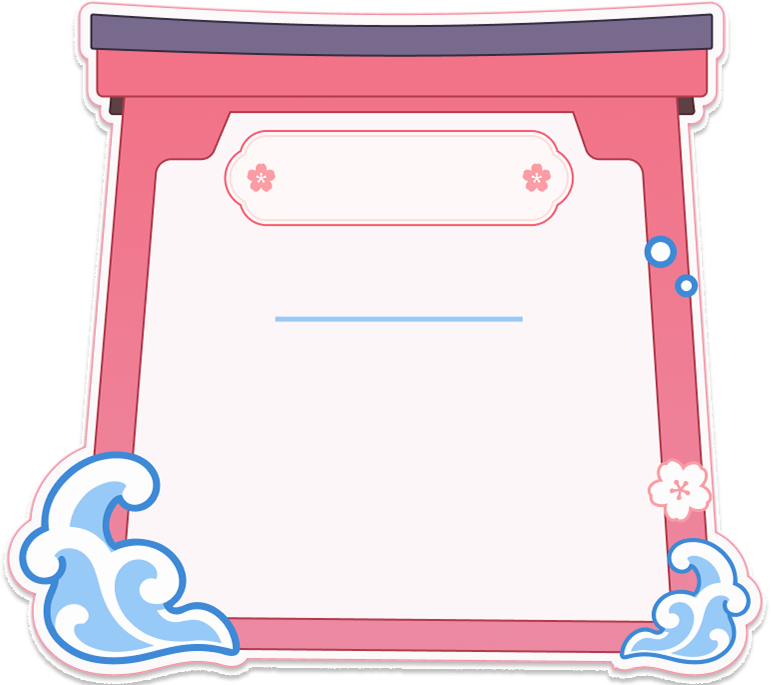
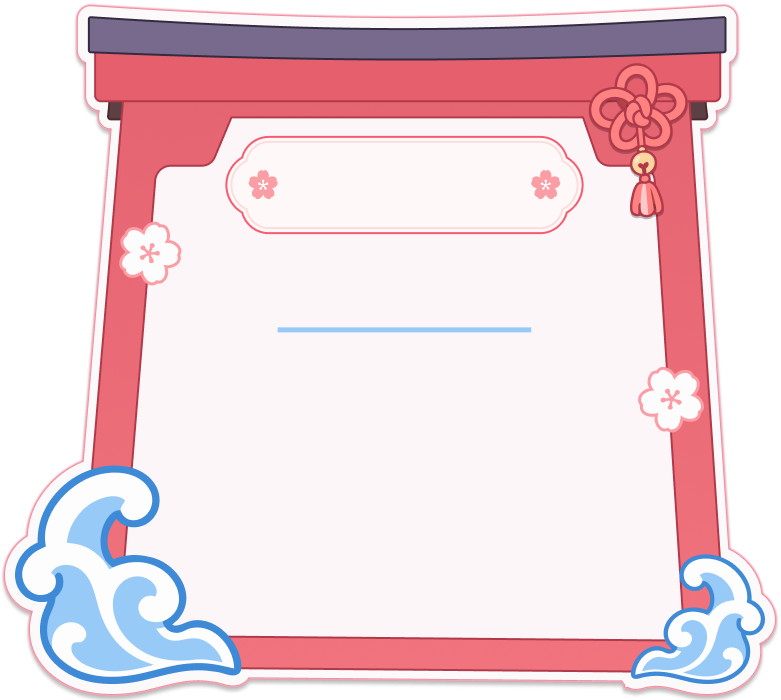
Feat: 수정사항 반영

Changed region(s): [[0.0, 0.0, 0.9961, 1.0], [0.3424, 0.4599, 0.6848, 0.4905]]

diff --git a/src/app/(root)/time-table/0c10c964-b83c-4309-a81b-76550aba17b0/_components/TimeTableCell.tsx b/src/app/(root)/time-table/0c10c964-b83c-4309-a81b-76550aba17b0/_components/TimeTableCell.tsx
@@ -81,8 +81,8 @@ const CardStreamingDay = ({
         style={{
           width: 200,
           height: 100,
-          top: 128,
-          left: 332,
+          top: 132,
+          left: 336,
           fontSize: 50,
           fontFamily: COMP_FONTS.STREAMING_DAY,
           color: COMP_COLORS.STREAMING_DAY,
@@ -107,8 +107,8 @@ const CardStreamingDate = ({
       style={{
         width: 200,
         height: 100,
-        top: 128,
-        left: 220,
+        top: 132,
+        left: 228,
         fontSize: 50,
         fontFamily: COMP_FONTS.STREAMING_DATE,
         color: COMP_COLORS.STREAMING_DATE,
@@ -139,7 +139,7 @@ const CardStreamingTime = ({
         height: 100,
         lineHeight: 1,
         fontSize: 45,
-        top: 228,
+        top: 236,
         left: 252,
       }}
       className=" absolute flex justify-center items-center"
@@ -155,7 +155,7 @@ const CardMainTitle = ({ currentTheme, content, day }: CardMainTitleProps) => {
       style={{
         width: 440,
         height: 240,
-        top: 360,
+        top: 372,
         left: 178,
       }}
       className="absolute flex justify-center items-center shrink-0"
@@ -211,7 +211,7 @@ const CardSubTitle = ({ content, day }: CardSubTitleProps) => {
       style={{
         width: 440,
         height: 80,
-        top: 320,
+        top: 330,
         left: 178,
       }}
       className="absolute flex justify-center items-center"
@@ -302,9 +302,34 @@ const OfflineCard = ({ day, currentTheme }: OfflineCardProps) => {
         ...CARD_SIZES.OFFLINE,
       }}
       key={day}
+      className="-z-10"
     >
       <img
         src={Imgs[currentTheme || "first"]["offline"].src.replace("./", "/")}
+        alt="offline"
+        style={{
+          ...CARD_SIZES.OFFLINE,
+        }}
+        draggable={false}
+      />
+    </div>
+  );
+};
+
+const OfflineFrame = ({ day, currentTheme }: OfflineCardProps) => {
+  return (
+    <div
+      style={{
+        ...CARD_SIZES.OFFLINE,
+      }}
+      key={day}
+      className="absolute inset-0 z-30"
+    >
+      <img
+        src={Imgs[currentTheme || "first"]["offline_frame"].src.replace(
+          "./",
+          "/",
+        )}
         alt="offline"
         style={{
           ...CARD_SIZES.OFFLINE,
@@ -329,7 +354,7 @@ const TimeTableCell: React.FC<TimeTableCellProps> = ({
   const entrySubTitle = (primaryEntry.subTitle as string) || "";
 
   const pos = [
-    { left: 3126, top: 85, rotate: "2.5deg" },
+    { left: 3128, top: 88, rotate: "2.5deg" },
     { left: 1572, top: 717, rotate: "-2.4deg" },
     { left: 2346, top: 689, rotate: "0deg" },
     { left: 3128, top: 785, rotate: "2.3deg" },
@@ -340,69 +365,39 @@ const TimeTableCell: React.FC<TimeTableCellProps> = ({
 
   return (
     <>
-      {time.isOffline ? (
-        <>
-          <div
-            style={{ ...CARD_SIZES.ONLINE, ...pos[time.day] }}
-            key={time.day}
-            className="absolute flex justify-center"
-          >
-            <CardStreamingDay
-              currentTheme={currentTheme}
-              day={time.day}
-              isOffline={time.isOffline}
-            />
-            <CardStreamingDate
-              day={time.day}
-              date={weekDate}
-              currentTheme={currentTheme}
-              isOffline={time.isOffline}
-            />
+      <div
+        style={{ ...CARD_SIZES.ONLINE, ...pos[time.day] }}
+        key={time.day}
+        className="absolute flex justify-center"
+      >
+        {time.isOffline && <OfflineFrame day={time.day} />}
+        <CardStreamingDay
+          currentTheme={currentTheme}
+          day={time.day}
+          isOffline={time.isOffline}
+        />
+        <CardStreamingDate
+          day={time.day}
+          date={weekDate}
+          currentTheme={currentTheme}
+          isOffline={time.isOffline}
+        />
 
-            {/* <CardSubTitle content={entrySubTitle} day={time.day} />
-            <CardMainTitle content={entryMainTitle} day={time.day} />
+        <CardSubTitle content={entrySubTitle} day={time.day} />
+        <CardMainTitle content={entryMainTitle} day={time.day} />
 
-            <CardStreamingTime
-              isGuerrilla={primaryEntry.isGuerrilla}
-              time={entryTime}
-              day={time.day}
-            /> */}
+        <CardStreamingTime
+          isGuerrilla={primaryEntry.isGuerrilla}
+          time={entryTime}
+          day={time.day}
+        />
 
-            <OfflineCard day={time.day} />
-          </div>
-        </>
-      ) : (
-        <>
-          <div
-            style={{ ...CARD_SIZES.ONLINE, ...pos[time.day] }}
-            key={time.day}
-            className="absolute flex justify-center"
-          >
-            <CardStreamingDay
-              currentTheme={currentTheme}
-              day={time.day}
-              isOffline={time.isOffline}
-            />
-            <CardStreamingDate
-              day={time.day}
-              date={weekDate}
-              currentTheme={currentTheme}
-              isOffline={time.isOffline}
-            />
-
-            <CardSubTitle content={entrySubTitle} day={time.day} />
-            <CardMainTitle content={entryMainTitle} day={time.day} />
-
-            <CardStreamingTime
-              isGuerrilla={primaryEntry.isGuerrilla}
-              time={entryTime}
-              day={time.day}
-            />
-
-            <OnlineCardBG day={time.day} />
-          </div>
-        </>
-      )}
+        {time.isOffline ? (
+          <OfflineCard day={time.day} />
+        ) : (
+          <OnlineCardBG day={time.day} />
+        )}
+      </div>
     </>
   );
 };

diff --git a/src/app/(root)/time-table/0c10c964-b83c-4309-a81b-76550aba17b0/_settings/settings.ts b/src/app/(root)/time-table/0c10c964-b83c-4309-a81b-76550aba17b0/_settings/settings.ts
@@ -33,7 +33,7 @@ export const templateSize = {
 
 export const BASE_FONTS = {
   PRIMARY: "KccSign",
-  SECONDARY: "",
+  SECONDARY: "NostalgicMongtori",
   TERTIARY: "",
   QUATERNARY: "",
 };
@@ -72,7 +72,7 @@ export const BASE_COLORS = {
   first: {
     primary: "#5C4044",
     secondary: "#8D6A6A",
-    tertiary: "#FDF6F8",
+    tertiary: "#ffffff",
     quaternary: "#",
   },
   second: {
@@ -106,7 +106,7 @@ export const COMP_FONTS = {
   STREAMING_DATE: BASE_FONTS.PRIMARY,
   STREAMING_DAY: BASE_FONTS.PRIMARY,
   ARTIST: BASE_FONTS.PRIMARY,
-  WEEKLY_FLAG: BASE_FONTS.PRIMARY,
+  WEEKLY_FLAG: BASE_FONTS.SECONDARY,
 };
 
 export const MAX_FONT_SIZES = {
@@ -118,11 +118,11 @@ export const MAX_FONT_SIZES = {
 export const CARD_SIZES: CardSizesProps = {
   ONLINE: {
     width: 771,
-    height: 685,
+    height: 700,
   },
   OFFLINE: {
     width: 771,
-    height: 685,
+    height: 700,
   },
   PROFILE: {
     width: 1500,

diff --git a/src/app/(root)/time-table/0c10c964-b83c-4309-a81b-76550aba17b0/_components/TimeTableWeekFlag.tsx b/src/app/(root)/time-table/0c10c964-b83c-4309-a81b-76550aba17b0/_components/TimeTableWeekFlag.tsx
@@ -29,15 +29,16 @@ const TimeTableWeekFlag = ({
         style={{
           fontFamily: COMP_FONTS.WEEKLY_FLAG,
           color: COMP_COLORS.WEEKLY_FLAG,
-          fontSize: 50,
-          top: 501,
-          left: 1600,
+          fontSize: 42,
+          top: 560,
+          left: 1608,
           width: 1600,
           height: 120,
+          fontWeight: 400,
         }}
       >
         {start.year}년 {padZero(start.month)}월 {padZero(start.date)}일 부터{" "}
-        {end.year}년 {padZero(end.month)}월 {padZero(end.date)}일 까지
+        {end.year}년 {padZero(end.month)}월 {padZero(end.date)}일
       </p>
 
       {/* <img

diff --git a/src/app/(root)/time-table/0c10c964-b83c-4309-a81b-76550aba17b0/_components/TimeTableArtist.tsx b/src/app/(root)/time-table/0c10c964-b83c-4309-a81b-76550aba17b0/_components/TimeTableArtist.tsx
@@ -20,7 +20,7 @@ const TimeTableArtist = ({
         width: 4000,
         height: 2250,
       }}
-      className="absolute z-30 flex justify-center items-center "
+      className="absolute z-40 flex justify-center items-center "
     >
       <div
         style={{
@@ -28,10 +28,10 @@ const TimeTableArtist = ({
           height: 110,
           width: 680,
           zIndex: 20,
-          top: 1957,
-          left: 140,
+          top: 2032,
+          left: 156,
         }}
-        className="flex justify-center items-center "
+        className="flex justify-center items-center"
       >
         <AutoResizeText
           style={{

diff --git a/src/app/(root)/time-table/0c10c964-b83c-4309-a81b-76550aba17b0/_img/imgs.ts b/src/app/(root)/time-table/0c10c964-b83c-4309-a81b-76550aba17b0/_img/imgs.ts
@@ -11,13 +11,14 @@ import PlateImg from "./main/plate.png";
 import TopObjectImg from "./main/top_object.png";
 import WeekDatesImg from "./main/week_dates.png";
 import WeeklyMemo from "./main/weekly_memo.png";
+import OfflineFrame from "./main/offline_frame.png";
 
 export const Imgs: ImgsType = {
   first: {
     artist: ArtistImg,
     frame: FrameImg,
     plate: PlateImg,
-
+    offline_frame: OfflineFrame,
     offline: OfflineImg,
     online: OnlineImg,
     top_object: TopObjectImg,

diff --git a/src/app/(root)/time-table/0c10c964-b83c-4309-a81b-76550aba17b0/_styles/index.css b/src/app/(root)/time-table/0c10c964-b83c-4309-a81b-76550aba17b0/_styles/index.css
@@ -10,3 +10,15 @@
   line-gap-override: 0%;
   size-adjust: 100%;
 }
+
+@font-face {
+  font-family: 'NostalgicMongtori';
+  src: url('https://cdn.jsdelivr.net/gh/projectnoonnu/2601-1@1.0/Griun_Mongtori-Rg.woff2') format('woff2');
+  font-weight: normal;
+  font-display: swap;
+
+  ascent-override: 84%;
+  descent-override: 16%;
+  line-gap-override: 0%;
+  size-adjust: 100%;
+}
